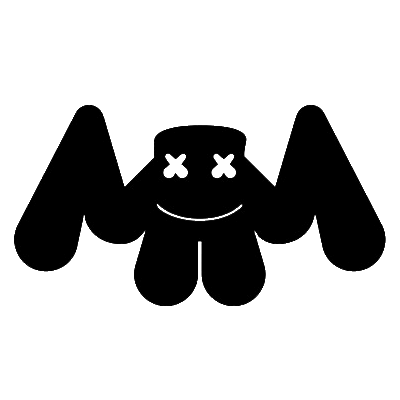
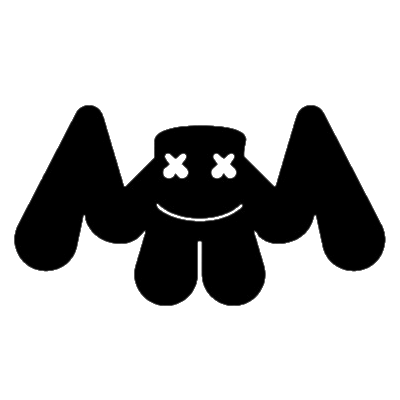
Update w/ images

diff --git a/css.css b/css.css
@@ -1,13 +1,15 @@
 body {
 	margin: 0;
+	padding: 0;
 	background-color: #f2f2f2;
 	font-size: 16px;
+	position: relative;
 }
 
 /* 
-		--------------------------------
-		 Deklaracije za navigation menu
-		--------------------------------
+		------------------------
+		 css za navigation menu
+		------------------------
 */
 nav {
 	z-index: 1000;
@@ -19,15 +21,15 @@ nav {
 }
 nav ul {
 	text-align: center;
-	padding: 10px 0px 10px 0px;
+	padding: 15px 0px 15px 0px;
 	list-style-type: none;
 	margin: 0;
 	overflow: hidden;
-	background-color: #999999;
+	background-color: #f2f2f2;
 	/*position: fixed;*/
 	top: 0;
 	width: 100%;
-	box-shadow: 0px 5px 5px 2px #999999;
+	/*box-shadow: 0px 5px 5px 2px #999999;*/
 }
 nav li {
 	display: inline-block; /* itemi v vrsti */
@@ -35,21 +37,21 @@ nav li {
 }
 nav a {
 	display: block;
-	color: white;
+	color: black;
 	font-family: 'Montserrat', sans-serif;
 	font-weight: bold;
 	text-decoration: none;
 	text-align: center;
 	padding: 10px 30px;
-	background-color: #999999; /* za animacijo na hover eventu */
+	background-color: #f2f2f2; /* za animacijo na hover eventu */
 	transition: background-color 250ms linear, transform 250ms ease;
 }
 nav a:hover {
-	background-color: #B30000;
+	background-color: rgba(179, 0, 0, 0.6);
 	transform: scale(1.05, 1.05);
 }
 nav a.active {
-	background-color: rgba(179, 0, 0, 0.9);
+	background-color: rgba(179, 0, 0, 0.8);
 }
 @media screen and (max-width: 720px) { /* rwd - screen width manjši od 720px (telefon?) -> gre v vertikalne blocke */
 	body {font-size: 12px}
@@ -58,27 +60,54 @@ nav a.active {
 }
 
 /*
-		---------------------
-		 Deklaracije za h, p
-		---------------------
+		------------------
+		 css za h, p, ol
+		------------------
 */
 
 h1, h2, h3 {
 	font-family: 'Montserrat', sans-serif;
 	font-weight: bold;
 }
-h1 {font-size: 1.75em}
-h2 {font-size: 1.5em}
-h3 {font-size: 1.25em}
+h1 {font-size: 2.25em}
+h2 {font-size: 1.75em; font-variant: small-caps; border-bottom: 1px solid black;}
+h3 {font-size: 1.5em}
 p {
 	font-family: 'Roboto', sans-serif;
-	font-size: 1em;
+	font-size: 1.125em;
+}
+h1.center {
+	text-align: center;
+}
+hr {
+	border-top: 1px solid black;
+	margin-left: 1%;
+	margin-right: 1%;
+}
+ol.sources {
+	list-style: none;
+	counter-reset: item;
+}
+ol.sources li {
+	counter-increment: item;
+	font-family: 'Roboto', sans-serif;
+	margin-bottom: 10px;
+}
+ol.sources li:before {
+	margin-right: 10px;
+	content: counter(item);
+	background: lightblue;
+	border-radius: 100%;
+	color: white;
+	width: 1.2em;
+	text-align: center;
+	display: inline-block;
 }
 
 /*
-		--------------------------
-		 Deklaracije za div.intro
-		--------------------------
+		------------
+		 css za div
+		------------
 */
 div.intro {
 	top: 0;
@@ -88,6 +117,7 @@ div.intro {
 	-webkit-user-select: none;
 	-ms-user-select: none;
 	-moz-user-select: none;
+	margin-bottom: 2.5%;
 }
 div.intro-txt {
 	font-family: 'Montserrat', sans-serif;
@@ -106,6 +136,77 @@ div.intro-txt:hover {
 	color: aqua;
 	font-size: 125%;
 }
-@media screen and (max-width: 720px) { /* rwd - screen width manjši od 720px (telefon?) -> gre v vertikalne blocke */
+@media screen and (max-width: 720px) { /* rwd - screen width manjši od 720px (telefon?) */
 	div.intro {font-size: 3em}
+}
+div.content {
+	margin-left: 5%;
+	margin-right: 5%;
+	padding-bottom: 15%;
+}
+div.indexnav {
+	margin-left: 5%;
+	margin-right: 5%;
+	padding-bottom: 15%;
+	text-align: center;
+}
+
+/*
+		------------------------------------
+		 css za button, footer, img, iframe
+		------------------------------------
+*/
+.navbutton {
+	font-family: 'Montserrat', sans-serif;
+	font-weight: bold;
+	font-variant: small-caps;
+	font-size: 2em;
+	background-color: lightblue;
+	border: none;
+	color: white;
+	padding: 1% 4%;
+	margin: 1% 2%;
+	text-align: center;
+	text-decoration: none;
+	display: inline-block;
+	cursor: pointer;
+	box-shadow: 2px 2px 1px silver;
+	transition: transform 250ms ease, background-color 250ms ease;
+}
+.navbutton:hover {
+	background-color: #63b4cf;
+	transform: scale(1.05, 1.05);
+}
+img.left {
+	float: left;
+	padding: 0px 20px 10px 0px;
+	height: 300px;
+}
+/* footer {
+	position: relative;
+	bottom: 0;
+	padding: 1% 0;
+	width: 100%;
+	background-color: silver;
+	color: white;
+	text-align: center;
+} */
+.video {
+	position: relative;
+	height: 0;
+	overflow: hidden;
+}
+.video-16x9 {
+	padding-bottom: 56.25%;
+}
+.video iframe {
+	position: absolute;
+	top: 0;
+	left: 12.5%;
+	width: 75%;
+	height: 75%;
+}
+@media screen and (max-width: 720px) { /* rwd - screen width manjši od 720px (telefon?) */
+	img.left {height: 150px; padding: 0px 10px 5px 0px}
+	.video iframe {left: 0; width: 100%; height: 100%;}
 }

diff --git a/desc.html b/desc.html
@@ -21,8 +21,26 @@
 		</nav>
 	<!-- vsebina strani od tuki naprej -->
 		<div class="intro">
-			<img src="images/marsh_wide.jpg" alt="marshmello" width="100%">
+			<img src="images/marsh_wide2.jpg" alt="marshmello" width="100%">
 			<div class="intro-txt">marshmello</div>
 		</div>
+		<div class="content">
+			<p><b>Marshmello</b> je producent elektronske glasbe in DJ. Prepoznavnost je sprva pridobil z remiksanjem pesmi avtorjev Jack Ü in Zedd. Kasneje je sodeloval z ustvarjalci kot so Omar LinX, Ookay, Jauz in Slushii. Januarja 2017 je njegova pesem "Alone" pristala na ameriški lestvici najbolj predvajanih pesmi Billboard Hot 100.</p>
+			<h2>izgled in identiteta</h2>
+			<p><img src="images/marsh_openbeatz.jpg" class="left" alt="marshmello maska">Marshmello v javnosti vedno nosi masko s križci za oči in nasmejanimi usti, zato njegova identiteta ni poznana. Pogosto se namiguje, da je Marshmello ameriški DJ Christian Comstock oz. Dotcom, saj sta si po glasbenem stilu zelo podobna. Prav tako naj bi oba imela enak tatu in rojstni dan.</p>
+			<p>Glasbenika je za ime in masko navdihnil kanadski DJ deadmau5, ki tako kot Marshmello za ime uporablja alternativno črkovanje (marshmallow - marshmello, dead mouse - deadmau5) in na dogodkih nosi masko miši.</p>
+			<p>Marshmello je na glasbenem festivalu EDC Las Vegas 2016 v šali "razkril" svojo identiteto. Na odru si je snel masko, vendar se je pod masko razkril nizozemski DJ Tiësto. Dogodek je bil opisan kot "troll", saj sta izvajalca imela križajoče se datume turnej. Poleg tega sta bila videna skupaj v slikah, zato je možnost, da je Marshmello v resnici Tiësto, zelo majhna.</p>
+			<p>Indijska igralka Urvashi Rautela je julija 2017 na Instagramu objavila fotografijo sebe, Chrisa Comstocka, Maejorja in Moe Shalizi. V objavi je namesto osebnega računa Chrisa Comstocka označila Marshmellov račun. To je še dodatno povečalo možnost, da je Marshmello v resnici Chris Comstock.</p>
+			<p>Na Marshmellovi pesmi "Silence" je poleg pevca Khalida kot edini pisec pesmi bil naveden Comstock.</p><br>
+			<h2>glasbeni stil</h2>
+			<p>Marshmellov glasbeni stil vključuje poudarek na ritmičnih vzorcih in basu, v pesmih pa večinoma uporablja sintetične zvoke. Ne glede na anonimnost so njegova dela dobila mednarodno prepoznavnost leta 2015, ko jih je začel objavljati na internetu. Med njimi so njegove avtorske pesmi kot so "Alone", "Summer" in remiksi Zeddovih pesmi ter pesmi avtorja Jack Ü.</p>
+			<div class="video video-16x9">
+				<iframe src="https://www.youtube.com/embed/AOeV8McKQrg?rel=0" frameborder="0" gesture="media" allow="encrypted-media" allowfullscreen></iframe>
+			</div>
+		</div>
+	<!-- footer -->
+		<!-- <footer>
+			<p>&copy; 2017</p>
+		</footer> -->
 	</body>
 </html>

diff --git a/sources.html b/sources.html
@@ -21,8 +21,29 @@
 		</nav>
 	<!-- vsebina strani od tuki naprej -->
 		<div class="intro">
-			<img src="images/marsh_wide.jpg" alt="marshmello" width="100%">
+			<img src="images/marsh_wide6.jpg" alt="marshmello" width="100%">
 			<div class="intro-txt">marshmello</div>
 		</div>
+		<div class="content">
+			<h1 class="center">VIRI</h1>
+			<h2>slike</h2>
+			<ol class="sources">
+				<li>WallpaperSite: Marshmello Wallpaper [online]. Dostopano 29. dec. 2017, 20:03. Dostopno na spletnem naslovu: <a href="https://wallpapersite.com/download-most-popular-wallpapers/marshmello-live-concert-4k-7560.html">https://wallpapersite.com/download-most-popular-wallpapers/marshmello-live-concert-4k-7560.html</a></li>
+				<li>WallpaperCave: Marshmello Wallpapers [online]. Dostopano 30. dec. 2017, 08:53. Dostopno na spletnem naslovu: <a href="https://wallpapercave.com/marshmello-wallpapers">https://wallpapercave.com/marshmello-wallpapers</a></li>
+				<li>Stefan Brending: 2016 Open Beatz - Marshmello [online]. Dostopano 30. dec. 2017, 10:35. Dostopno na spletnem naslovu: <a href=" https://commons.wikimedia.org/w/index.php?curid=50474420"> https://commons.wikimedia.org/w/index.php?curid=50474420</a></li>
+			</ol>
+			<h2>besedilo</h2>
+			<ol class="sources">
+				<li>Wikipedia: Marshmello [online]. Dostopano 30. dec. 2017, 10:11. Dostopno na spletnem naslovu: <a href="https://en.wikipedia.org/wiki/Marshmello">https://en.wikipedia.org/wiki/Marshmello</a></li>
+			</ol>
+			<h2>videoposnetki</h2>
+			<ol class="sources">
+				<li>YouTube: Marshmello and Tiesto TROLL EDC 2016 [online]. Dostopano 30. dec. 2017, 11:49. Dostopno na spletnem naslovu: <a href="https://youtu.be/AOeV8McKQrg">https://youtu.be/AOeV8McKQrg</a></li>
+			</ol>
+		</div>
+	<!-- footer -->
+		<!-- <footer>
+			<p>&copy; 2017</p>
+		</footer> -->
 	</body>
 </html>

diff --git a/index.html b/index.html
@@ -24,5 +24,15 @@
 			<img src="images/marsh_wide.jpg" alt="marshmello" width="100%">
 			<div class="intro-txt">marshmello</div>
 		</div>
+		<div class="indexnav">
+			<a href="desc.html" class="navbutton">o glasbeniku</a>
+			<a href="career.html" class="navbutton">kariera</a>
+			<a href="gallery.html" class="navbutton">galerija</a>
+			<a href="sources.html" class="navbutton">viri</a>
+		</div>
+	<!-- footer -->
+		<!-- <footer>
+			<p>&copy; 2017</p>
+		</footer> -->
 	</body>
 </html>

diff --git a/career.html b/career.html
@@ -21,8 +21,16 @@
 		</nav>
 	<!-- vsebina strani od tuki naprej -->
 		<div class="intro">
-			<img src="images/marsh_wide.jpg" alt="marshmello" width="100%">
+			<img src="images/marsh_wide4.jpg" alt="marshmello" width="100%">
 			<div class="intro-txt">marshmello</div>
 		</div>
+		<div class="content">
+			<h2>leto 2015</h2>
+			<p></p>
+		</div>
+	<!-- footer -->
+		<!-- <footer>
+			<p>&copy; 2017</p>
+		</footer> -->
 	</body>
 </html>

diff --git a/gallery.html b/gallery.html
@@ -21,8 +21,15 @@
 		</nav>
 	<!-- vsebina strani od tuki naprej -->
 		<div class="intro">
-			<img src="images/marsh_wide.jpg" alt="marshmello" width="100%">
+			<img src="images/marsh_wide5.jpg" alt="marshmello" width="100%">
 			<div class="intro-txt">marshmello</div>
 		</div>
+		<div class="content">
+		aa
+		</div>
+	<!-- footer -->
+		<!-- <footer>
+			<p>&copy; 2017</p>
+		</footer> -->
 	</body>
 </html>
